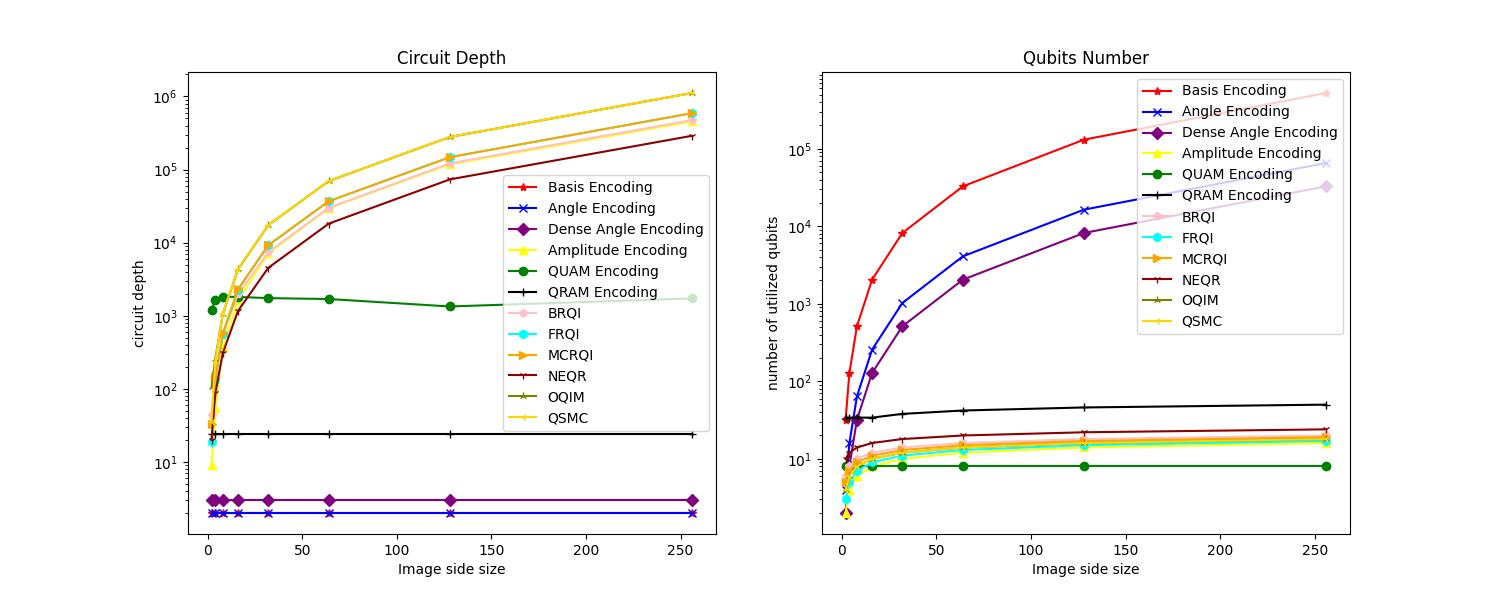
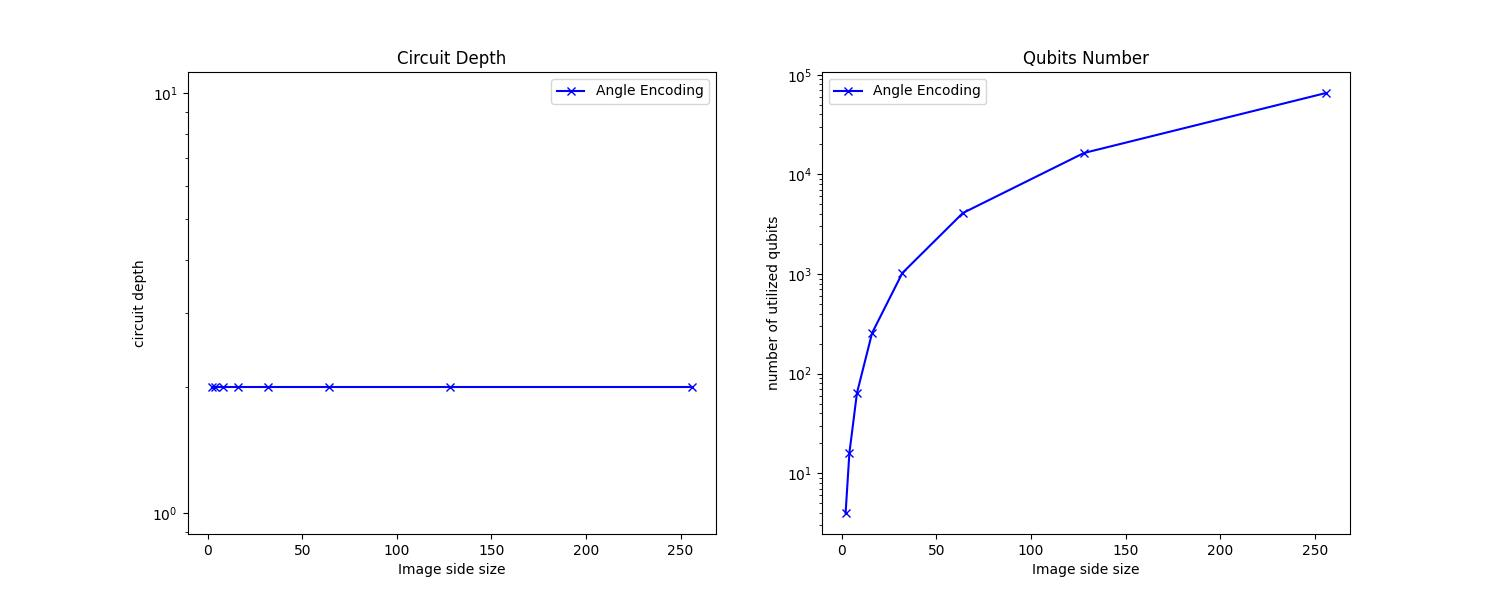
new upload

diff --git a/circuitEval.py b/circuitEval.py
@@ -147,40 +147,40 @@ if __name__ == '__main__':
[1 lines of base64/hex data omitted]
     hardware = setQiskitBackend(token, 'ibm_brisbane')
     sim = Aer.get_backend('qasm_simulator')
-    amp_depths, amp_nums = circuitEvaluation(imgPath, imgSizeList, encoding='Amplitude Encoding', backend=hardware)
-    dense_depths, dense_nums = circuitEvaluation(imgPath, imgSizeList, encoding='Dense Angle Encoding', backend=hardware)
-    quam_depths, quam_nums = circuitEvaluation(imgPath, imgSizeList, encoding='QUAM Encoding', backend=hardware)
-    basis_depths, basis_nums = circuitEvaluation(imgPath, imgSizeList, encoding='Basis Encoding', backend=hardware) # sim
+    # amp_depths, amp_nums = circuitEvaluation(imgPath, imgSizeList, encoding='Amplitude Encoding', backend=hardware)
+    # dense_depths, dense_nums = circuitEvaluation(imgPath, imgSizeList, encoding='Dense Angle Encoding', backend=hardware)
+    # quam_depths, quam_nums = circuitEvaluation(imgPath, imgSizeList, encoding='QUAM Encoding', backend=hardware)
+    # basis_depths, basis_nums = circuitEvaluation(imgPath, imgSizeList, encoding='Basis Encoding', backend=hardware) # sim
     angle_depths, angle_nums = circuitEvaluation(imgPath, imgSizeList, encoding='Angle Encoding', backend=hardware)
-    qram_depths, qram_nums = circuitEvaluation(imgPath, imgSizeList, encoding='QRAM Encoding', backend=hardware)
+    # qram_depths, qram_nums = circuitEvaluation(imgPath, imgSizeList, encoding='QRAM Encoding', backend=hardware)
 
-    brqi_depths, brqi_nums = circuitEvaluation(imgPath, imgSizeList, encoding='BRQI', backend=hardware)
-    frqi_depths, frqi_nums = circuitEvaluation(imgPath, imgSizeList, encoding='FRQI', backend=hardware)
+    # brqi_depths, brqi_nums = circuitEvaluation(imgPath, imgSizeList, encoding='BRQI', backend=hardware)
+    # frqi_depths, frqi_nums = circuitEvaluation(imgPath, imgSizeList, encoding='FRQI', backend=hardware)
     # ftqr_depths, ftqr_nums = circuitEvaluation(imgPath, imgSizeList, encoding='FTQR', backend=sim)
     # gqir_depths, gqir_nums = circuitEvaluation(imgPath, imgSizeList, encoding='GQIR', backend=hardware)
-    mcrqi_depths, mcrqi_nums = circuitEvaluation(imgPath, imgSizeList, encoding='MCRQI', backend=hardware)
-    neqr_depths, neqr_nums = circuitEvaluation(imgPath, imgSizeList, encoding='NEQR', backend=sim)
-    oqim_depths, oqim_nums = circuitEvaluation(imgPath, imgSizeList, encoding='OQIM', backend=sim)
-    qsmc_depths, qsmc_nums = circuitEvaluation(imgPath, imgSizeList, encoding='QSMC', backend=sim)
+    # mcrqi_depths, mcrqi_nums = circuitEvaluation(imgPath, imgSizeList, encoding='MCRQI', backend=hardware)
+    # neqr_depths, neqr_nums = circuitEvaluation(imgPath, imgSizeList, encoding='NEQR', backend=sim)
+    # oqim_depths, oqim_nums = circuitEvaluation(imgPath, imgSizeList, encoding='OQIM', backend=sim)
+    # qsmc_depths, qsmc_nums = circuitEvaluation(imgPath, imgSizeList, encoding='QSMC', backend=sim)
 
     plt.figure(figsize=(15,6))
 
     plt.subplot(1,2,1)
-    plt.plot(imgSizeList, basis_depths, color = 'red', linestyle='-', label='Basis Encoding', marker='*')
+    # plt.plot(imgSizeList, basis_depths, color = 'red', linestyle='-', label='Basis Encoding', marker='*')
     plt.plot(imgSizeList, angle_depths, color = 'blue', linestyle='-', label='Angle Encoding', marker='x')
-    plt.plot(imgSizeList, dense_depths, color = 'purple', linestyle='-', label='Dense Angle Encoding', marker='D')
-    plt.plot(imgSizeList, amp_depths, color = 'yellow', linestyle='-', label='Amplitude Encoding', marker='^')
-    plt.plot(imgSizeList, quam_depths, color = 'green', linestyle='-', label='QUAM Encoding', marker='o')
-    plt.plot(imgSizeList, qram_depths, color = 'black', linestyle='-', label='QRAM Encoding', marker='+')
+    # plt.plot(imgSizeList, dense_depths, color = 'purple', linestyle='-', label='Dense Angle Encoding', marker='D')
+    # plt.plot(imgSizeList, amp_depths, color = 'yellow', linestyle='-', label='Amplitude Encoding', marker='^')
+    # plt.plot(imgSizeList, quam_depths, color = 'green', linestyle='-', label='QUAM Encoding', marker='o')
+    # plt.plot(imgSizeList, qram_depths, color = 'black', linestyle='-', label='QRAM Encoding', marker='+')
 
-    plt.plot(imgSizeList, brqi_depths, color = 'pink', linestyle='-', label='BRQI', marker='p')
-    plt.plot(imgSizeList, frqi_depths, color = 'cyan', linestyle='-', label='FRQI', marker='h')
+    # plt.plot(imgSizeList, brqi_depths, color = 'pink', linestyle='-', label='BRQI', marker='p')
+    # plt.plot(imgSizeList, frqi_depths, color = 'cyan', linestyle='-', label='FRQI', marker='h')
     # plt.plot(imgSizeList, ftqr_depths, color = 'brown', linestyle='-', label='FTQR', marker='v')
     # plt.plot(imgSizeList, gqir_depths, color = 'gray', linestyle='-', label='GQIR', marker='<')
-    plt.plot(imgSizeList, mcrqi_depths, color = 'orange', linestyle='-', label='MCRQI', marker='>')
-    plt.plot(imgSizeList, neqr_depths, color = 'darkred', linestyle='-', label='NEQR', marker='1')
-    plt.plot(imgSizeList, oqim_depths, color = 'olive', linestyle='-', label='OQIM', marker='2')
-    plt.plot(imgSizeList, qsmc_depths, color = 'gold', linestyle='-', label='QSMC', marker='3')
+    # plt.plot(imgSizeList, mcrqi_depths, color = 'orange', linestyle='-', label='MCRQI', marker='>')
+    # plt.plot(imgSizeList, neqr_depths, color = 'darkred', linestyle='-', label='NEQR', marker='1')
+    # plt.plot(imgSizeList, oqim_depths, color = 'olive', linestyle='-', label='OQIM', marker='2')
+    # plt.plot(imgSizeList, qsmc_depths, color = 'gold', linestyle='-', label='QSMC', marker='3')
 
     plt.legend(loc='best')
     plt.xlabel('Image side size')
@@ -189,21 +189,21 @@ if __name__ == '__main__':
     plt.title('Circuit Depth')
 
     plt.subplot(1,2,2)
-    plt.plot(imgSizeList, basis_nums, color='red', linestyle='-', label='Basis Encoding', marker='*')
+    # plt.plot(imgSizeList, basis_nums, color='red', linestyle='-', label='Basis Encoding', marker='*')
     plt.plot(imgSizeList, angle_nums, color='blue', linestyle='-', label='Angle Encoding', marker='x')
-    plt.plot(imgSizeList, dense_nums, color='purple', linestyle='-', label='Dense Angle Encoding', marker='D')
-    plt.plot(imgSizeList, amp_nums, color='yellow', linestyle='-', label='Amplitude Encoding', marker='^')
-    plt.plot(imgSizeList, quam_nums, color='green', linestyle='-', label='QUAM Encoding', marker='o')
-    plt.plot(imgSizeList, qram_nums, color = 'black', linestyle='-', label='QRAM Encoding', marker='+')
+    # plt.plot(imgSizeList, dense_nums, color='purple', linestyle='-', label='Dense Angle Encoding', marker='D')
+    # plt.plot(imgSizeList, amp_nums, color='yellow', linestyle='-', label='Amplitude Encoding', marker='^')
+    # plt.plot(imgSizeList, quam_nums, color='green', linestyle='-', label='QUAM Encoding', marker='o')
+    # plt.plot(imgSizeList, qram_nums, color = 'black', linestyle='-', label='QRAM Encoding', marker='+')
 
-    plt.plot(imgSizeList, brqi_nums, color = 'pink', linestyle='-', label='BRQI', marker='p')
-    plt.plot(imgSizeList, frqi_nums, color = 'cyan', linestyle='-', label='FRQI', marker='h')
+    # plt.plot(imgSizeList, brqi_nums, color = 'pink', linestyle='-', label='BRQI', marker='p')
+    # plt.plot(imgSizeList, frqi_nums, color = 'cyan', linestyle='-', label='FRQI', marker='h')
     # plt.plot(imgSizeList, ftqr_nums, color = 'brown', linestyle='-', label='FTQR', marker='v')
     # plt.plot(imgSizeList, gqir_nums, color = 'gray', linestyle='-', label='GQIR', marker='<')
-    plt.plot(imgSizeList, mcrqi_nums, color = 'orange', linestyle='-', label='MCRQI', marker='>')
-    plt.plot(imgSizeList, neqr_nums, color = 'darkred', linestyle='-', label='NEQR', marker='1')
-    plt.plot(imgSizeList, oqim_nums, color = 'olive', linestyle='-', label='OQIM', marker='2')
-    plt.plot(imgSizeList, qsmc_nums, color = 'gold', linestyle='-', label='QSMC', marker='3')
+    # plt.plot(imgSizeList, mcrqi_nums, color = 'orange', linestyle='-', label='MCRQI', marker='>')
+    # plt.plot(imgSizeList, neqr_nums, color = 'darkred', linestyle='-', label='NEQR', marker='1')
+    # plt.plot(imgSizeList, oqim_nums, color = 'olive', linestyle='-', label='OQIM', marker='2')
+    # plt.plot(imgSizeList, qsmc_nums, color = 'gold', linestyle='-', label='QSMC', marker='3')
 
     plt.legend(loc='best')
     plt.xlabel('Image side size')

diff --git a/circuits.py b/circuits.py
@@ -2,7 +2,7 @@ import cmath
 
 import numpy as np
 import math
-from qiskit import QuantumCircuit, transpile
+from qiskit import QuantumCircuit, transpile, QuantumRegister, ClassicalRegister
 from qiskit_aer import Aer, AerSimulator
 from qiskit_ibm_runtime import SamplerV2 as Sampler
 # from qiskit_ibm_runtime import SamplerV1 as Sampler
@@ -36,17 +36,20 @@ def basisEncoding(imgArr):
 # Angle Encoding -- Qubit Lattice
 def angleEncodingCircuit(imgArr):
     # data normalization
-    norm = []
+    # norm = []
     # for data in imgArr:
     #     norm.append(2 * (data * math.pi) / 255.0)
-    signal = np.interp(imgArr, (0, 255), (0, np.pi))
+    norm = np.interp(imgArr, (0, 255), (0, np.pi))
     n = len(imgArr)
 
     # circuit
-    qc = QuantumCircuit(n,n)
-    for i in range(n):
-        qc.ry(norm[i], i)
-    qc.measure_all()
+    # qc = QuantumCircuit(n,n)
+    color = QuantumRegister(len(imgArr), 'color')
+    classic = ClassicalRegister(color.size, 'cl_reg')
+    qc = QuantumCircuit(color, classic)
+    for i, ang in enumerate(norm):
+        qc.ry(ang, i)
+    qc.measure(list(reversed(range(len(imgArr)))), range(len(imgArr)))
 
     # qc.draw(output='mpl')
     # plt.show()

diff --git a/circuitTest.py b/circuitTest.py
@@ -3,17 +3,19 @@ from matplotlib import pyplot as plt
 from qiskit.visualization import plot_distribution
 
 from circuits import angleEncodingCircuit, simulate
+from distributedCircuit import distributedSimulation
+from imageUtil import image2Arr
 from imgRev import angleDisReversion
 from qiskit_backend import constructBackend
 
 if __name__ == '__main__':
-    imgArr = np.array([125, 200])
+    # imgArr = np.array([0, 125, 200, 255])
+    imgArr = image2Arr(imagePath='img/duck.png', size=32)
     qc = angleEncodingCircuit(imgArr)
-    shots = 20000
-    qc.draw(output='mpl')
+    shots = 200000
+    # qc.draw(output='mpl')
     sim = constructBackend('qasm', 0, qc.num_qubits)
-    dist = simulate(qc, shots, sim)
-    print(dist)
-    # plot_distribution(dist)
-    # plt.show()
-    angleDisReversion(dist, imgArr, shots)
+    img = distributedSimulation(imgArr, 8, shots, sim)
+    # print(img)
+    plt.imshow(img, cmap='gray')
+    plt.show()

diff --git a/imgRev.py b/imgRev.py
@@ -27,15 +27,21 @@ def ampDisReversion(dist, keyset, sqSum, shots, n):
     return dist_Mat
 
 # retrieve img from angle encoding
-def angleDisReversion(dist, imgArr, shots):
+def angleDisReversion(dist, imgArr, shots, reshape):
     pixels = np.zeros((len(imgArr)))
     for item in dist:
         for i, bit in enumerate(item):
             if bit == '0':
                 pixels[i] += dist[item]
-    print(pixels)
+    # print(pixels)
+    size = int(math.sqrt(len(imgArr)))
     reconstruct = []
     for pixel in pixels:
-        color = 2 * np.arccos((pixel / shots) ** (1 / 2))
+        color = 2 * np.arccos((pixel / shots) ** (1 / 2)) * 100
         reconstruct.append(color)
-    print(reconstruct)
+    sorted_dist = np.array(reconstruct)
+    if reshape == True:
+        dist_Mat = sorted_dist.reshape((size, size))
+        return dist_Mat
+    else:
+        return sorted_dist

diff --git a/distributedCircuit.py b/distributedCircuit.py
@@ -1,0 +1,23 @@
+# inspired by separate circuit
+import math
+
+import numpy as np
+from tqdm import tqdm
+
+from circuits import angleEncodingCircuit, simulate
+from imgRev import angleDisReversion
+
+
+def distributedSimulation(imgArr, partSize, shots, sim):
+    partNum = int(len(imgArr) / partSize)
+    img = imgArr.reshape((partNum, partSize))
+    processedImg = []
+    for arr in tqdm(img):
+        qc = angleEncodingCircuit(arr)
+        dist = simulate(qc, shots, sim)
+        img = angleDisReversion(dist, arr, shots, reshape = False)
+        processedImg.append(img)
+    processedImg = np.array(processedImg)
+    size = int(math.sqrt(len(imgArr)))
+    return processedImg.reshape((size, size))
+
